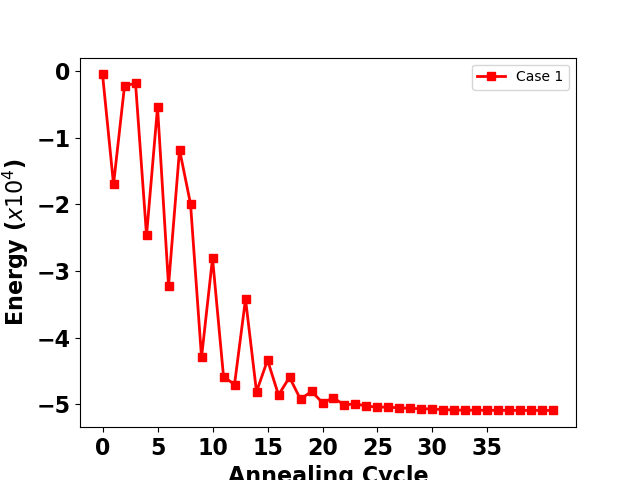
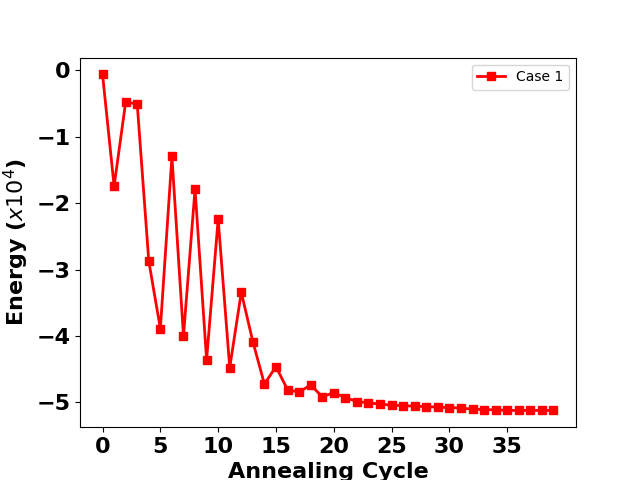
ieee done

diff --git a/Ising_computation_SA.py b/Ising_computation_SA.py
@@ -13,7 +13,7 @@ import random
 image_size = 64*100
 rows, cols = (64,100)
 # image_name ='testImg_1234abcd.png'
-image_name ='./image/testImg_64x100_coffee.png'
+image_name ='./image/testImg_64x100_ieee.png'
 
 
 def img2bin(row,col,name):
@@ -375,7 +375,7 @@ def ising_test_data_ver2():
     J = img2dict_generate_j(rows,cols,image_name)
 
     probability = []
-    num_flip = [2400, 2300, 2000, 1500, 1000, 700, 500, 180, 100, 50, 30, 10]
+    num_flip = [2000, 1800, 1500, 1200, 1000, 500, 200, 100, 50, 30, 10]
     for i in range(len(num_flip)+10):
 
         if i==0:
@@ -480,7 +480,7 @@ def ising_test_data():
 
 
 KPI_test_data = ising_test_data_ver2()
-np.savetxt('./saved_energy_data/64x100_coffee.csv',KPI_test_data,delimiter="")
+np.savetxt('./saved_energy_data/64x100_IEEE.csv',KPI_test_data,delimiter="")
 
 
 plt.figure(1)
